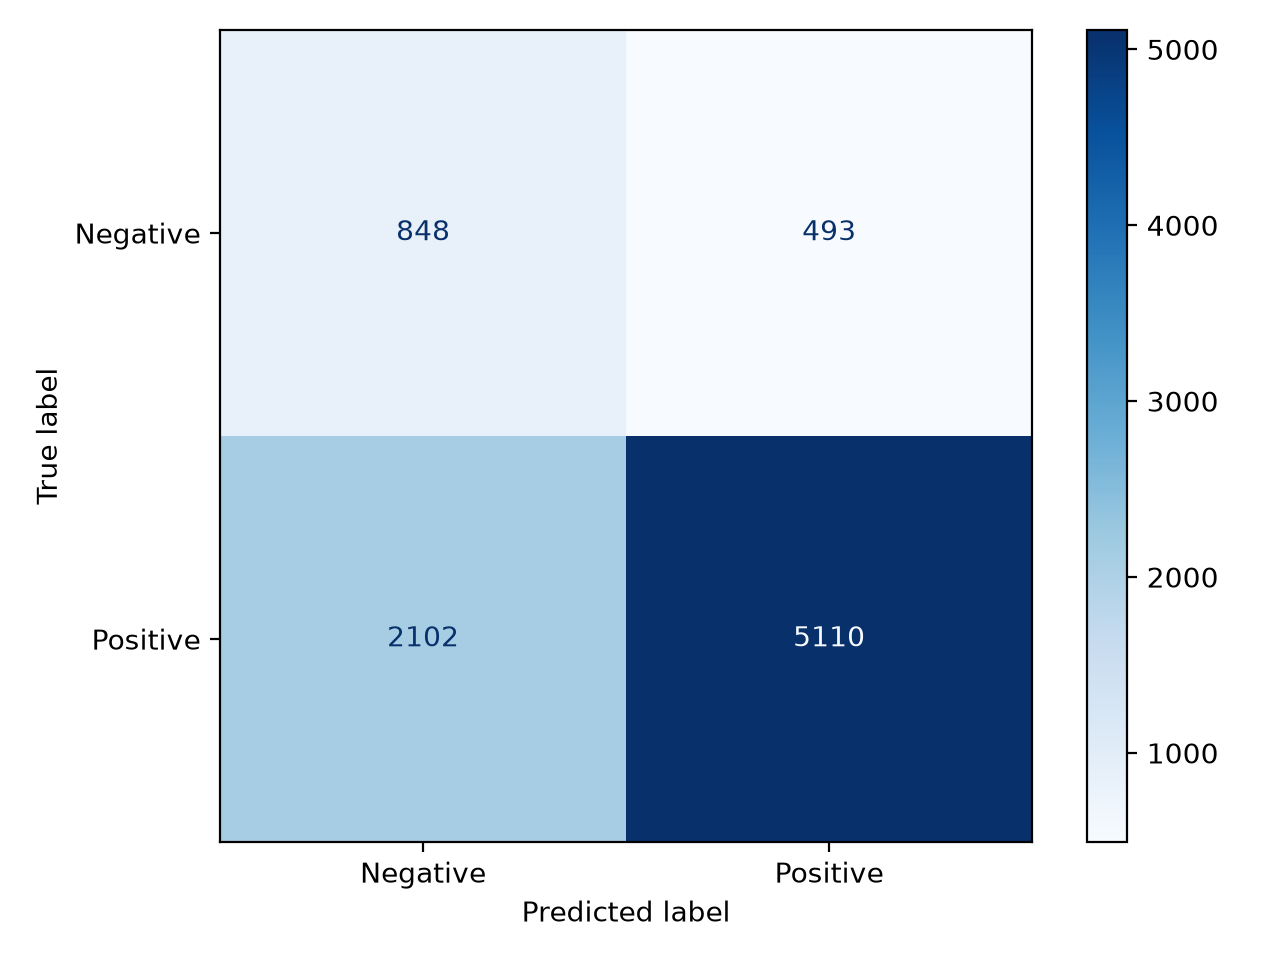
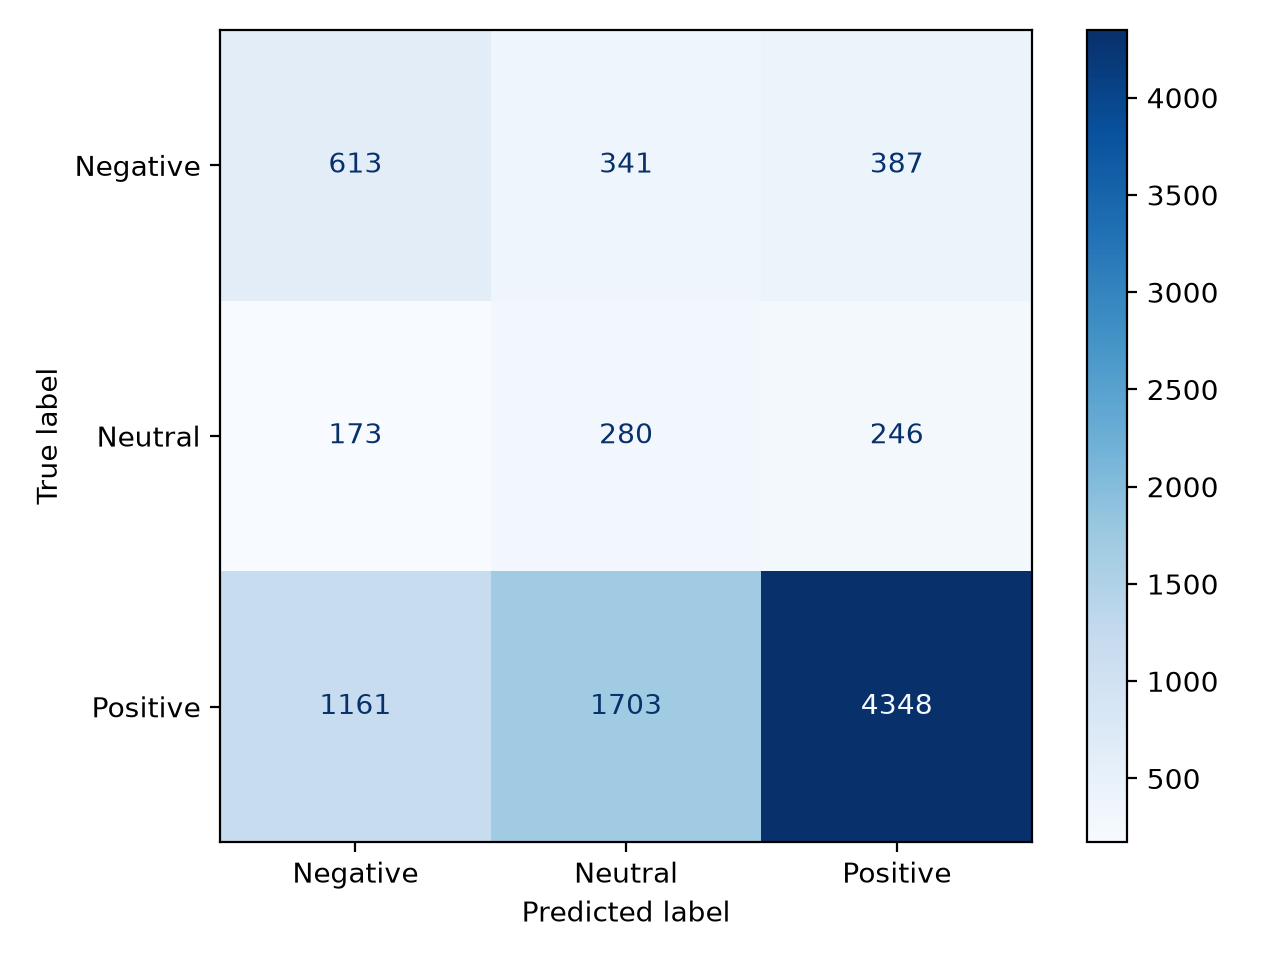
Neutral result support

diff --git a/data/word_embeddings.py b/data/word_embeddings.py
@@ -13,6 +13,8 @@ from sklearn.metrics import (
     recall_score,
     f1_score,
     ConfusionMatrixDisplay,
+    classification_report,
+    confusion_matrix,
 )
 
 
@@ -21,10 +23,13 @@ output = root / "results" / "word_embeddings"
 output.mkdir(parents=True, exist_ok=True)
 
 df = pd.read_csv(root / "data-bin" / "group_sample_seed43.csv")
-df = df[df["Score"].isin([1, 2, 4, 5])]
+df = df[df["Score"].isin([1, 2, 3, 4, 5])]
 df = df.dropna(subset=["Text"]).copy()
 
-df["label"] = (df["Score"] >= 4).astype(int)
+labels = ["Negative", "Neutral", "Positive"]
+df["label"] = df["Score"].map({
+    1: "Negative", 2: "Negative", 3: "Neutral", 4: "Positive", 5: "Positive"
+})
 
 df["Text"] = df["Text"].str.lower()
 df["Text"] = df["Text"].str.replace(r"<[^>]+>", " ", regex=True)
@@ -53,21 +58,32 @@ def review_vector(text):
     return np.mean(vectors, axis=0)
 
 
-train, test = train_test_split(
+train, remaining = train_test_split(
     df,
-    test_size=0.20,
+    test_size=0.30,
     random_state=43,
     stratify=df["label"],
 )
+validation, test = train_test_split(
+    remaining, test_size=2 / 3, random_state=43, stratify=remaining["label"]
+)
 
 X_train = np.array([review_vector(text) for text in train["Text"]])
+X_validation = np.array([review_vector(text) for text in validation["Text"]])
 X_test = np.array([review_vector(text) for text in test["Text"]])
 
 y_train = train["label"]
 y_test = test["label"]
 
-model = GaussianNB()
-model.fit(X_train, y_train)
+best_f1 = -1
+for smoothing in [1e-9, 1e-7, 1e-5]:
+    candidate = GaussianNB(var_smoothing=smoothing)
+    candidate.fit(X_train, y_train)
+    score = f1_score(validation["label"], candidate.predict(X_validation),
+                     average="macro", zero_division=0)
+    if score > best_f1:
+        best_f1 = score
+        model = candidate
 predictions = model.predict(X_test)
 
 majority_label = y_train.mode()[0]
@@ -81,29 +97,37 @@ def show_results(name, predicted):
     scores = {
         "Model": name,
         "Accuracy": accuracy_score(y_test, predicted),
-        "Precision": precision_score(y_test, predicted, zero_division=0),
-        "Recall": recall_score(y_test, predicted, zero_division=0),
-        "F1": f1_score(y_test, predicted, zero_division=0),
+        "Precision_macro": precision_score(y_test, predicted, labels=labels, average="macro", zero_division=0),
+        "Recall_macro": recall_score(y_test, predicted, labels=labels, average="macro", zero_division=0),
+        "F1_macro": f1_score(y_test, predicted, labels=labels, average="macro", zero_division=0),
     }
     results.append(scores)
     print("\n" + name)
-    for metric in ["Accuracy", "Precision", "Recall", "F1"]:
+    for metric in ["Accuracy", "Precision_macro", "Recall_macro", "F1_macro"]:
         print(metric + ":", round(scores[metric], 4))
 
 
 print("Training reviews:", len(train))
+print("Validation reviews:", len(validation))
 print("Test reviews:", len(test))
 print("Features per review:", X_train.shape[1])
+print("Selected model:", model)
 
 show_results("Majority baseline", baseline)
 show_results("Word embeddings + Gaussian Naive Bayes", predictions)
 pd.DataFrame(results).to_csv(output / "metrics.csv", index=False)
+pd.DataFrame(classification_report(
+    y_test, predictions, labels=labels, output_dict=True, zero_division=0
+)).T.to_csv(output / "classification_report.csv")
+pd.DataFrame(
+    confusion_matrix(y_test, predictions, labels=labels), index=labels, columns=labels
+).to_csv(output / "confusion_matrix.csv", index_label="Actual / Predicted")
 
 ConfusionMatrixDisplay.from_predictions(
     y_test,
     predictions,
-    labels=[0, 1],
-    display_labels=["Negative", "Positive"],
+    labels=labels,
+    display_labels=labels,
     cmap="Blues",
 )
 plt.tight_layout()
@@ -118,12 +142,18 @@ word_counts = Counter(
 print("Training vocabulary:", len(word_counts))
 print("Training words found in GloVe:", sum(word in embeddings for word in word_counts))
 
-contributions = Counter()
+contributions = {}
 review_counts = Counter()
-training_log_probabilities = model.predict_log_proba(X_train)
-training_log_odds = training_log_probabilities[:, 1] - training_log_probabilities[:, 0]
 
-for text, vector, original_score in zip(train["Text"], X_train, training_log_odds):
+
+def class_scores(vectors):
+    probabilities = model.predict_log_proba(vectors)
+    return probabilities - (probabilities.sum(axis=1, keepdims=True) - probabilities) / 2
+
+
+training_scores = class_scores(X_train)
+
+for text, vector, original_score in zip(train["Text"], X_train, training_scores):
     counts = Counter(
         word for word in re.findall(r"[a-z]+(?:'[a-z]+)?", text)
         if word in embeddings
@@ -136,33 +166,29 @@ for text, vector, original_score in zip(train["Text"], X_train, training_log_odd
         (vector * total - embeddings[word] * counts[word]) / (total - counts[word])
         for word in words
     ])
-    probabilities = model.predict_log_proba(without_words)
-    changes = original_score - (probabilities[:, 1] - probabilities[:, 0])
+    changes = original_score - class_scores(without_words)
     for word, change in zip(words, changes):
-        contributions[word] += float(change)
+        if word not in contributions:
+            contributions[word] = np.zeros(3)
+        contributions[word] += change
         review_counts[word] += 1
 
 word_scores = pd.DataFrame([
-    {"Word": word, "Contribution": contributions[word] / review_counts[word],
+    {"Word": word, "Sentiment": label, "Contribution": contributions[word][i] / review_counts[word],
      "Count": word_counts[word], "Reviews": review_counts[word]}
     for word in contributions if review_counts[word] >= 5
+    for i, label in enumerate(model.classes_)
 ])
-positive = word_scores[word_scores["Contribution"] > 0].nlargest(10, "Contribution")
-negative = word_scores[word_scores["Contribution"] < 0].nsmallest(10, "Contribution")
-positive.to_csv(output / "positive_words.csv", index=False)
-negative.to_csv(output / "negative_words.csv", index=False)
-print("\nPositive words:\n", positive.to_string(index=False))
-print("\nNegative words:\n", negative.to_string(index=False))
-
-fig, axes = plt.subplots(1, 2, figsize=(11, 5))
-for ax, words, title, color in [
-    (axes[0], negative, "Negative word contributions", "tomato"),
-    (axes[1], positive, "Positive word contributions", "seagreen"),
-]:
-    words = words.sort_values("Contribution")
+fig, axes = plt.subplots(1, 3, figsize=(16, 6))
+for ax, label, color in zip(axes, labels, ["tomato", "steelblue", "seagreen"]):
+    words = word_scores[(word_scores["Sentiment"] == label) & (word_scores["Contribution"] > 0)]
+    words = words.nlargest(10, "Contribution").sort_values("Contribution")
+    words.to_csv(output / f"{label.lower()}_words.csv", index=False)
+    print(f"\n{label} words:\n", words.to_string(index=False))
     ax.barh(words["Word"], words["Contribution"], color=color)
-    ax.set_title(title)
-    ax.set_xlabel("Mean log-odds change: original minus word removed")
+    ax.set_title(f"Words associated with {label.lower()}")
+    ax.set_xlabel("Mean change in relative class log score\n(original minus word removed)")
+fig.suptitle("GloVe + Gaussian NB: training-review word contributions")
 fig.tight_layout()
 fig.savefig(output / "word_contributions.png", dpi=200)
 plt.close(fig)
@@ -171,7 +197,7 @@ errors = test[["Text", "Score", "label"]].copy()
 errors["prediction"] = predictions
 errors = errors[errors["label"] != errors["prediction"]]
 examples = pd.concat([
-    group.sample(n=min(5, len(group)), random_state=43)
+    group.sample(n=min(3, len(group)), random_state=43)
     for _, group in errors.groupby("label")
 ])
 examples.to_csv(output / "misclassified_reviews.csv", index=False)

diff --git a/README.md b/README.md
@@ -17,3 +17,17 @@ Our project will use the Amazon Fine Food Reviews dataset to build and evaluate 
 We will preprocess the review text and apply TF-IDF and word embeddings as our features engineering methods to convert textual information into numerical representations. Next, we will implement two classical machine learning models, Naive Bayes and Gaussian Mixture Model (GMM), and compare their performance with a pre-trained transformer model, DistilBERT. We will evaluate the models using accuracy, precision, recall and F1-score.
 
 Finally, we will develop and deploy a Streamlit web application that allows users to enter their own review text and view sentiment predictions from at least two trained models. Through this project, we aim to understand how different feature representations and model architectures influence the accuracy and efficiency of sentiment classification.
+
+## Run GloVe + Gaussian Naive Bayes
+
+With the sample CSV and `glove.6B.100d.txt` in `data-bin/`, run from the repo root:
+
+```powershell
+python -m data.word_embeddings
+```
+
+The script classifies reviews as Negative (1–2 stars), Neutral (3), or Positive
+(4–5), using a 70/10/20 train/validation/test split with seed 43. Variance smoothing
+is selected using validation macro F1. Metrics, the three-class confusion matrix,
+word-contribution chart, and misclassified examples are saved in
+`results/word_embeddings/`. Precision, recall, and F1 use macro averaging.
